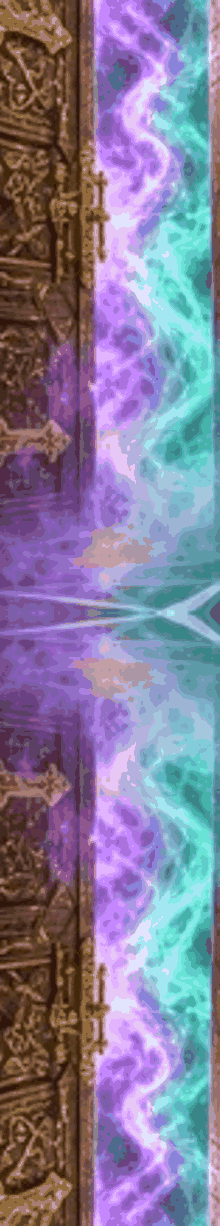
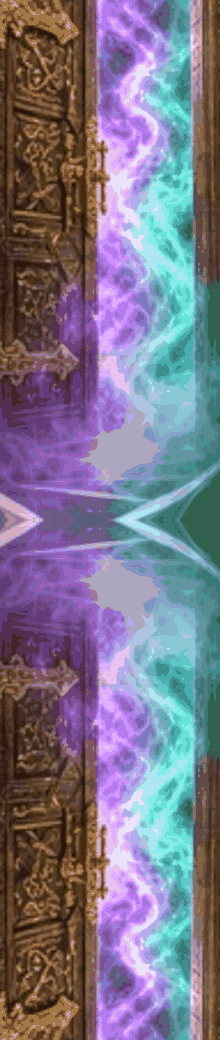
Snap the traced opening onto the painting's own edges
The hand trace stopped a few pixels short of the stonework, and on the
right of the arch -- where the frame curves away and the opening widens
-- a few pixels short is a visible strip of unpainted stone.

So the trace is a SEED now rather than the answer. It grows outward, but
only into pixels that look like the opening (bright, and neither the
green of the tree nor the dark of the frame), and only within fourteen
pixels of where the hand put it. The hand decides where the opening is;
the painting decides exactly where it ends. Neither alone was enough:
colour could not tell the way through from the glow on the floor, and a
finger cannot land on a two-pixel edge.

33,786 traced pixels become 47,415 snapped ones, reaching the arch on
both sides and following its curve.

Claude-Session: https://claude.ai/code/session_012fPE6Z885VdMpuWvLVtEeg

diff --git a/gate.js b/gate.js
@@ -23,7 +23,7 @@
   /* ---------- the picture, and the two places that matter in it ----------
      Both are fractions: how far across, how far down. If the artwork is
      ever replaced, these two lines are what to re-measure. */
-  const AIM = { x: 0.532, y: 0.687 };   // the middle of the opening
+  const AIM = { x: 0.531, y: 0.692 };   // the middle of the opening
                                       // Measured off the art rather than
                                       // guessed: the old value was 19px to
                                       // the right of the actual arch.
@@ -276,7 +276,7 @@
      to. Looking only for violet and cyan found the bright core of the gap
      and missed its edges, where the light has gone pale or warm. The
      opening is everything in there that is not green. */
-  const GAP = { x0: 0.442, y0: 0.444, x1: 0.621, y1: 0.930 };
+  const GAP = { x0: 0.422, y0: 0.440, x1: 0.640, y1: 0.943 };
 
   const gapImg = new Image();
   let gapReady = false;

diff --git a/tools/doormask.py b/tools/doormask.py
@@ -89,6 +89,34 @@ def register(cut, src, mark, coarse=24):
     return fine or rough
 
 
+def snap(seed, art, reach=14):
+    """Grow the hand trace out onto the painting's own edges.
+
+    A line drawn with a finger stops a few pixels short of where the
+    stonework actually begins, and on the right of the arch -- where the
+    frame curves away and the opening widens -- short by a few pixels is a
+    visible strip of unpainted stone.
+
+    So the trace is treated as a SEED rather than as the answer. It grows
+    outward, but only into pixels that look like the opening (bright, and
+    not the green of the tree or the dark of the frame), and only within
+    `reach` pixels of where the hand put it. The hand decides where the
+    opening is; the painting decides exactly where it ends.
+    """
+    r, g, b = art[..., 0], art[..., 1], art[..., 2]
+    mean = art.mean(2)
+    green = (g > r + 10) & (g > b + 10)
+    opening = ~green & (mean > 70)
+
+    near = ndimage.binary_dilation(seed, np.ones((3, 3)), iterations=reach)
+    allowed = (opening & near) | seed
+    grown = ndimage.binary_propagation(seed, mask=allowed)
+    grown = ndimage.binary_closing(grown, np.ones((5, 5)))
+    grown = ndimage.binary_fill_holes(grown)
+    print(f"  snapped to the painting: {seed.sum()} -> {grown.sum()} pixels")
+    return grown
+
+
 def main():
     src = Image.open(ART).convert("RGB")
     cut = Image.open(MARK).convert("RGB")
@@ -108,6 +136,8 @@ def main():
     lab, n = ndimage.label(m)
     m = lab == int(np.argmax(ndimage.sum(m, lab, range(1, n + 1)))) + 1
     m = ndimage.binary_fill_holes(m)
+
+    m = snap(m, np.asarray(src).astype(int))
     m = ndimage.binary_erosion(m, np.ones((3, 3)), iterations=1)   # off the stone
 
     ys, xs = np.where(m)

diff --git a/tools/realm.py b/tools/realm.py
@@ -36,7 +36,7 @@ SRC = f"{ROOT}/art/scenes/tree-source.png"
 # further down -- and lifting the whole gap meant that dark band drifted
 # up through the arch and left the top of the doorway looking unfilled.
 # Starting below it takes only the lit column.
-CROP = (0.442, 0.560, 0.621, 0.930)
+CROP = (0.422, 0.560, 0.640, 0.943)
 OUT_W = 220
 
 
